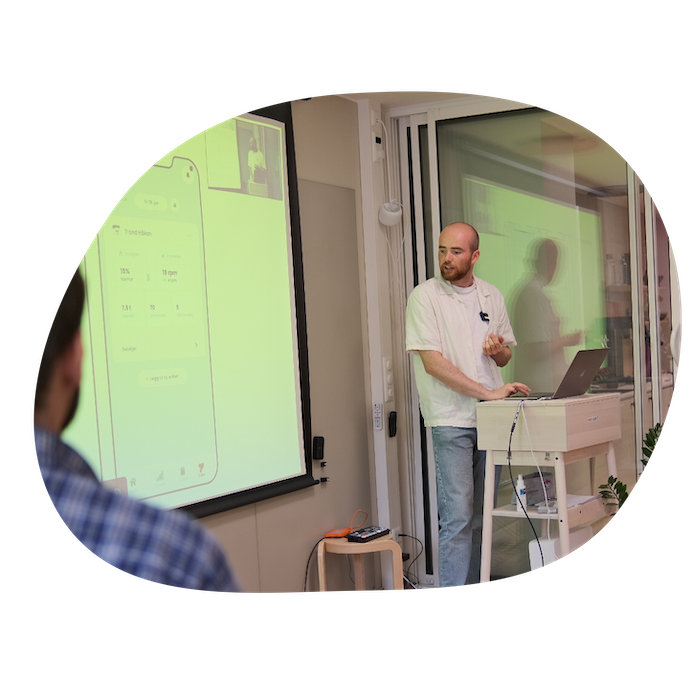
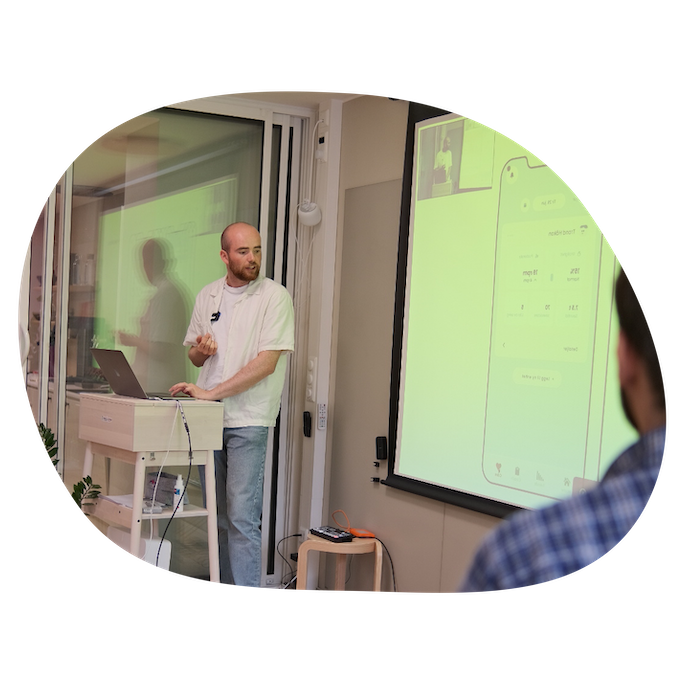
Reduce size of heading on mobile. Flip images.

diff --git a/src/jobs/listing/listings.module.css b/src/jobs/listing/listings.module.css
@@ -47,6 +47,9 @@
     align-items: center;
     justify-content: center;
   }
+  .jobArticle__title {
+    font-size: 2.7rem;
+  }
 }
 
 .rendered__markdown__wrapper {
